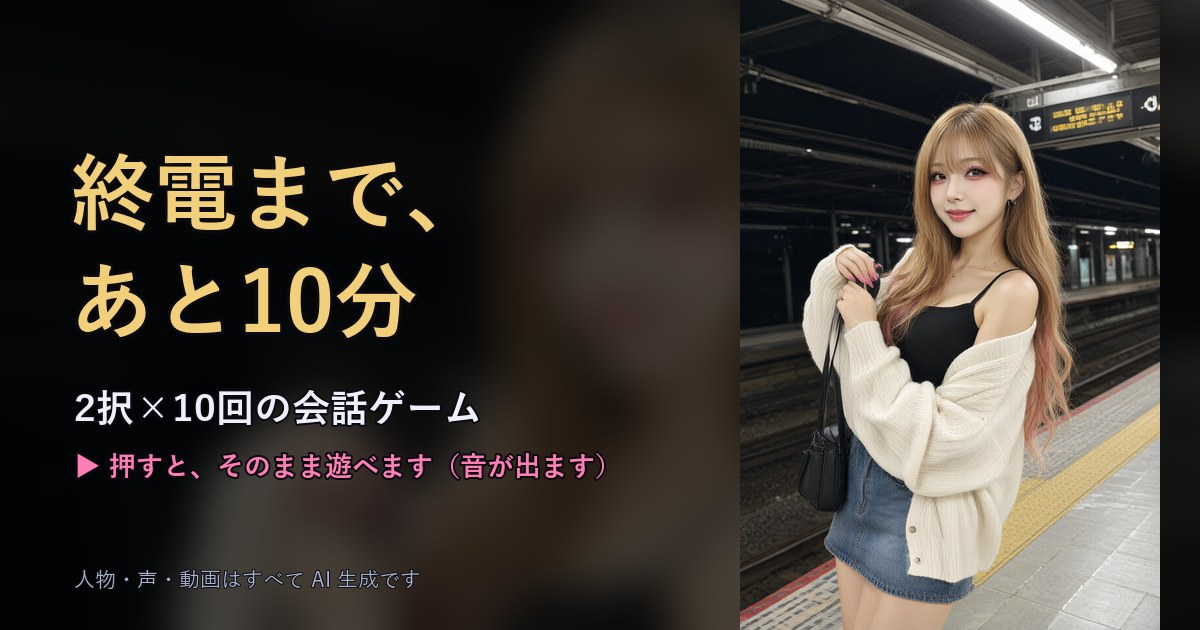
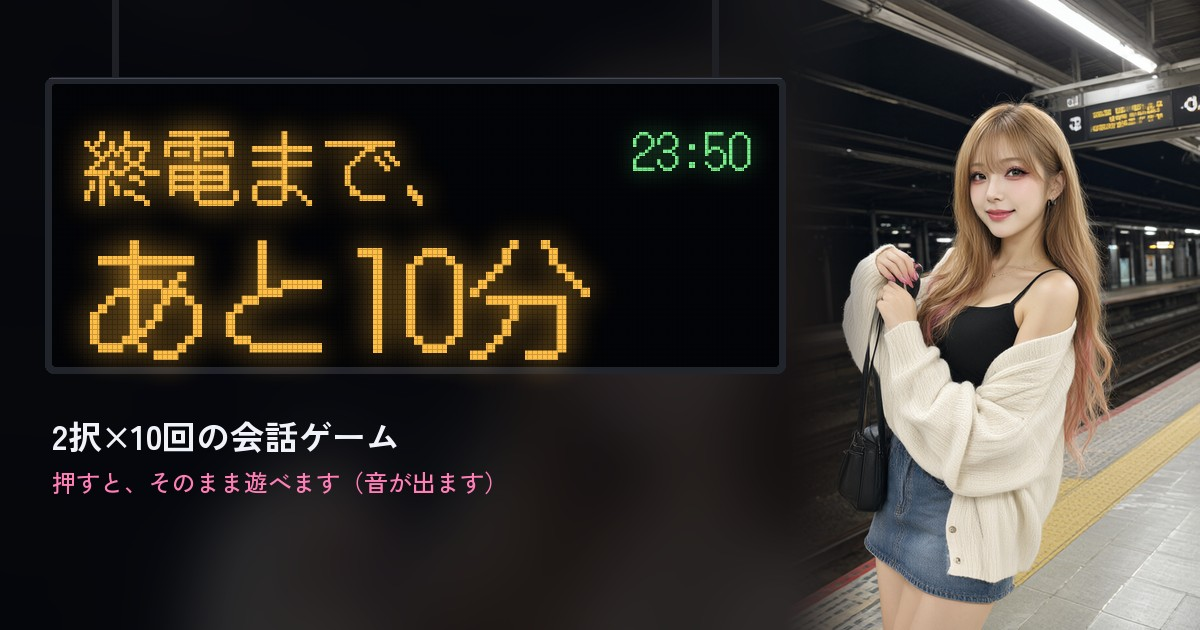
Set the title as a station departure board
- link card: the title is shown on a hanging LED departure board
  (DotGothic16, amber) with the 23:50 clock; drop the note line
- opening screen title and the in-game clock use the same face
  (title.woff2, a 21-glyph subset)
- README: list what was used, keep the non-commercial note

Claude-Session: https://claude.ai/code/session_01Kn32ozhrge8FqDidcWSCH2

diff --git a/index.html b/index.html
@@ -7,7 +7,7 @@
 <meta name="description" content="2択×10回の会話ゲーム。金曜の夜、23時50分。 飲み会の帰り、駅のホームに、行きつけの古着屋の店員の彼女と二人きり。 終電は、0時ちょうど。">
 <meta property="og:title" content="終電まで、あと10分">
 <meta property="og:description" content="2択×10回の会話ゲーム。金曜の夜、23時50分。 飲み会の帰り、駅のホームに、行きつけの古着屋の店員の彼女と二人きり。 終電は、0時ちょうど。">
-<meta property="og:image" content="https://sotachan-7sai.github.io/shuuden-10min/card.jpg">
+<meta property="og:image" content="https://sotachan-7sai.github.io/shuuden-10min/card.jpg?v=6e0fbde8">
 <meta property="og:image:width" content="1200">
 <meta property="og:image:height" content="630">
 <meta property="og:url" content="https://sotachan-7sai.github.io/shuuden-10min/">
@@ -16,8 +16,9 @@
 <meta name="twitter:card" content="summary_large_image">
 <meta name="twitter:title" content="終電まで、あと10分">
 <meta name="twitter:description" content="2択×10回の会話ゲーム。金曜の夜、23時50分。 飲み会の帰り、駅のホームに、行きつけの古着屋の店員の彼女と二人きり。 終電は、0時ちょうど。">
-<meta name="twitter:image" content="https://sotachan-7sai.github.io/shuuden-10min/card.jpg">
+<meta name="twitter:image" content="https://sotachan-7sai.github.io/shuuden-10min/card.jpg?v=6e0fbde8">
 <style>#list{display:none}</style>
+<style>@font-face{font-family:"Keijiban";src:url("title.woff2") format("woff2");font-display:swap}#intro::first-line{font-family:"Keijiban",sans-serif;font-size:1.95em;color:#ffbe46;text-shadow:0 0 16px rgba(255,176,46,.55);letter-spacing:.03em}#clock{font-family:"Keijiban",monospace}#clock small{font-family:"Yu Gothic UI","Meiryo",sans-serif}</style>
 
 <style>
 :root { --bg:#07080d; --panel:rgba(12,14,22,.84); --line:#2e3550; --text:#eef1fb; --sub:#9aa4c4; --hot:#ff7eb6; --gold:#f2cf7a; }

diff --git a/README.md b/README.md
@@ -9,8 +9,7 @@
 - 選ぶのは画面のボタン。PC はキーボードの A / B でも選べます
 - 終わると得点が出ます
 
-## これは何でできているか
+## 使ったもの
 
-- 人物・声・動画はすべて AI で生成したものです。登場人物は架空の成人で、実在の人物ではありません
-- 絵: Qwen-Image ／ 動画: MiniMax H3 ／ 声: Irodori TTS
-- 絵のモデルが非商用ライセンスのため、**このリポジトリの動画・画像を商用に使うことはできません**
+- 絵: Qwen-Image ／ 動画: MiniMax H3 ／ 声: Irodori TTS ／ 題の字: DotGothic16（SIL Open Font License）
+- このリポジトリの動画・画像は、商用には使えません（絵のモデルが非商用ライセンスのため）
